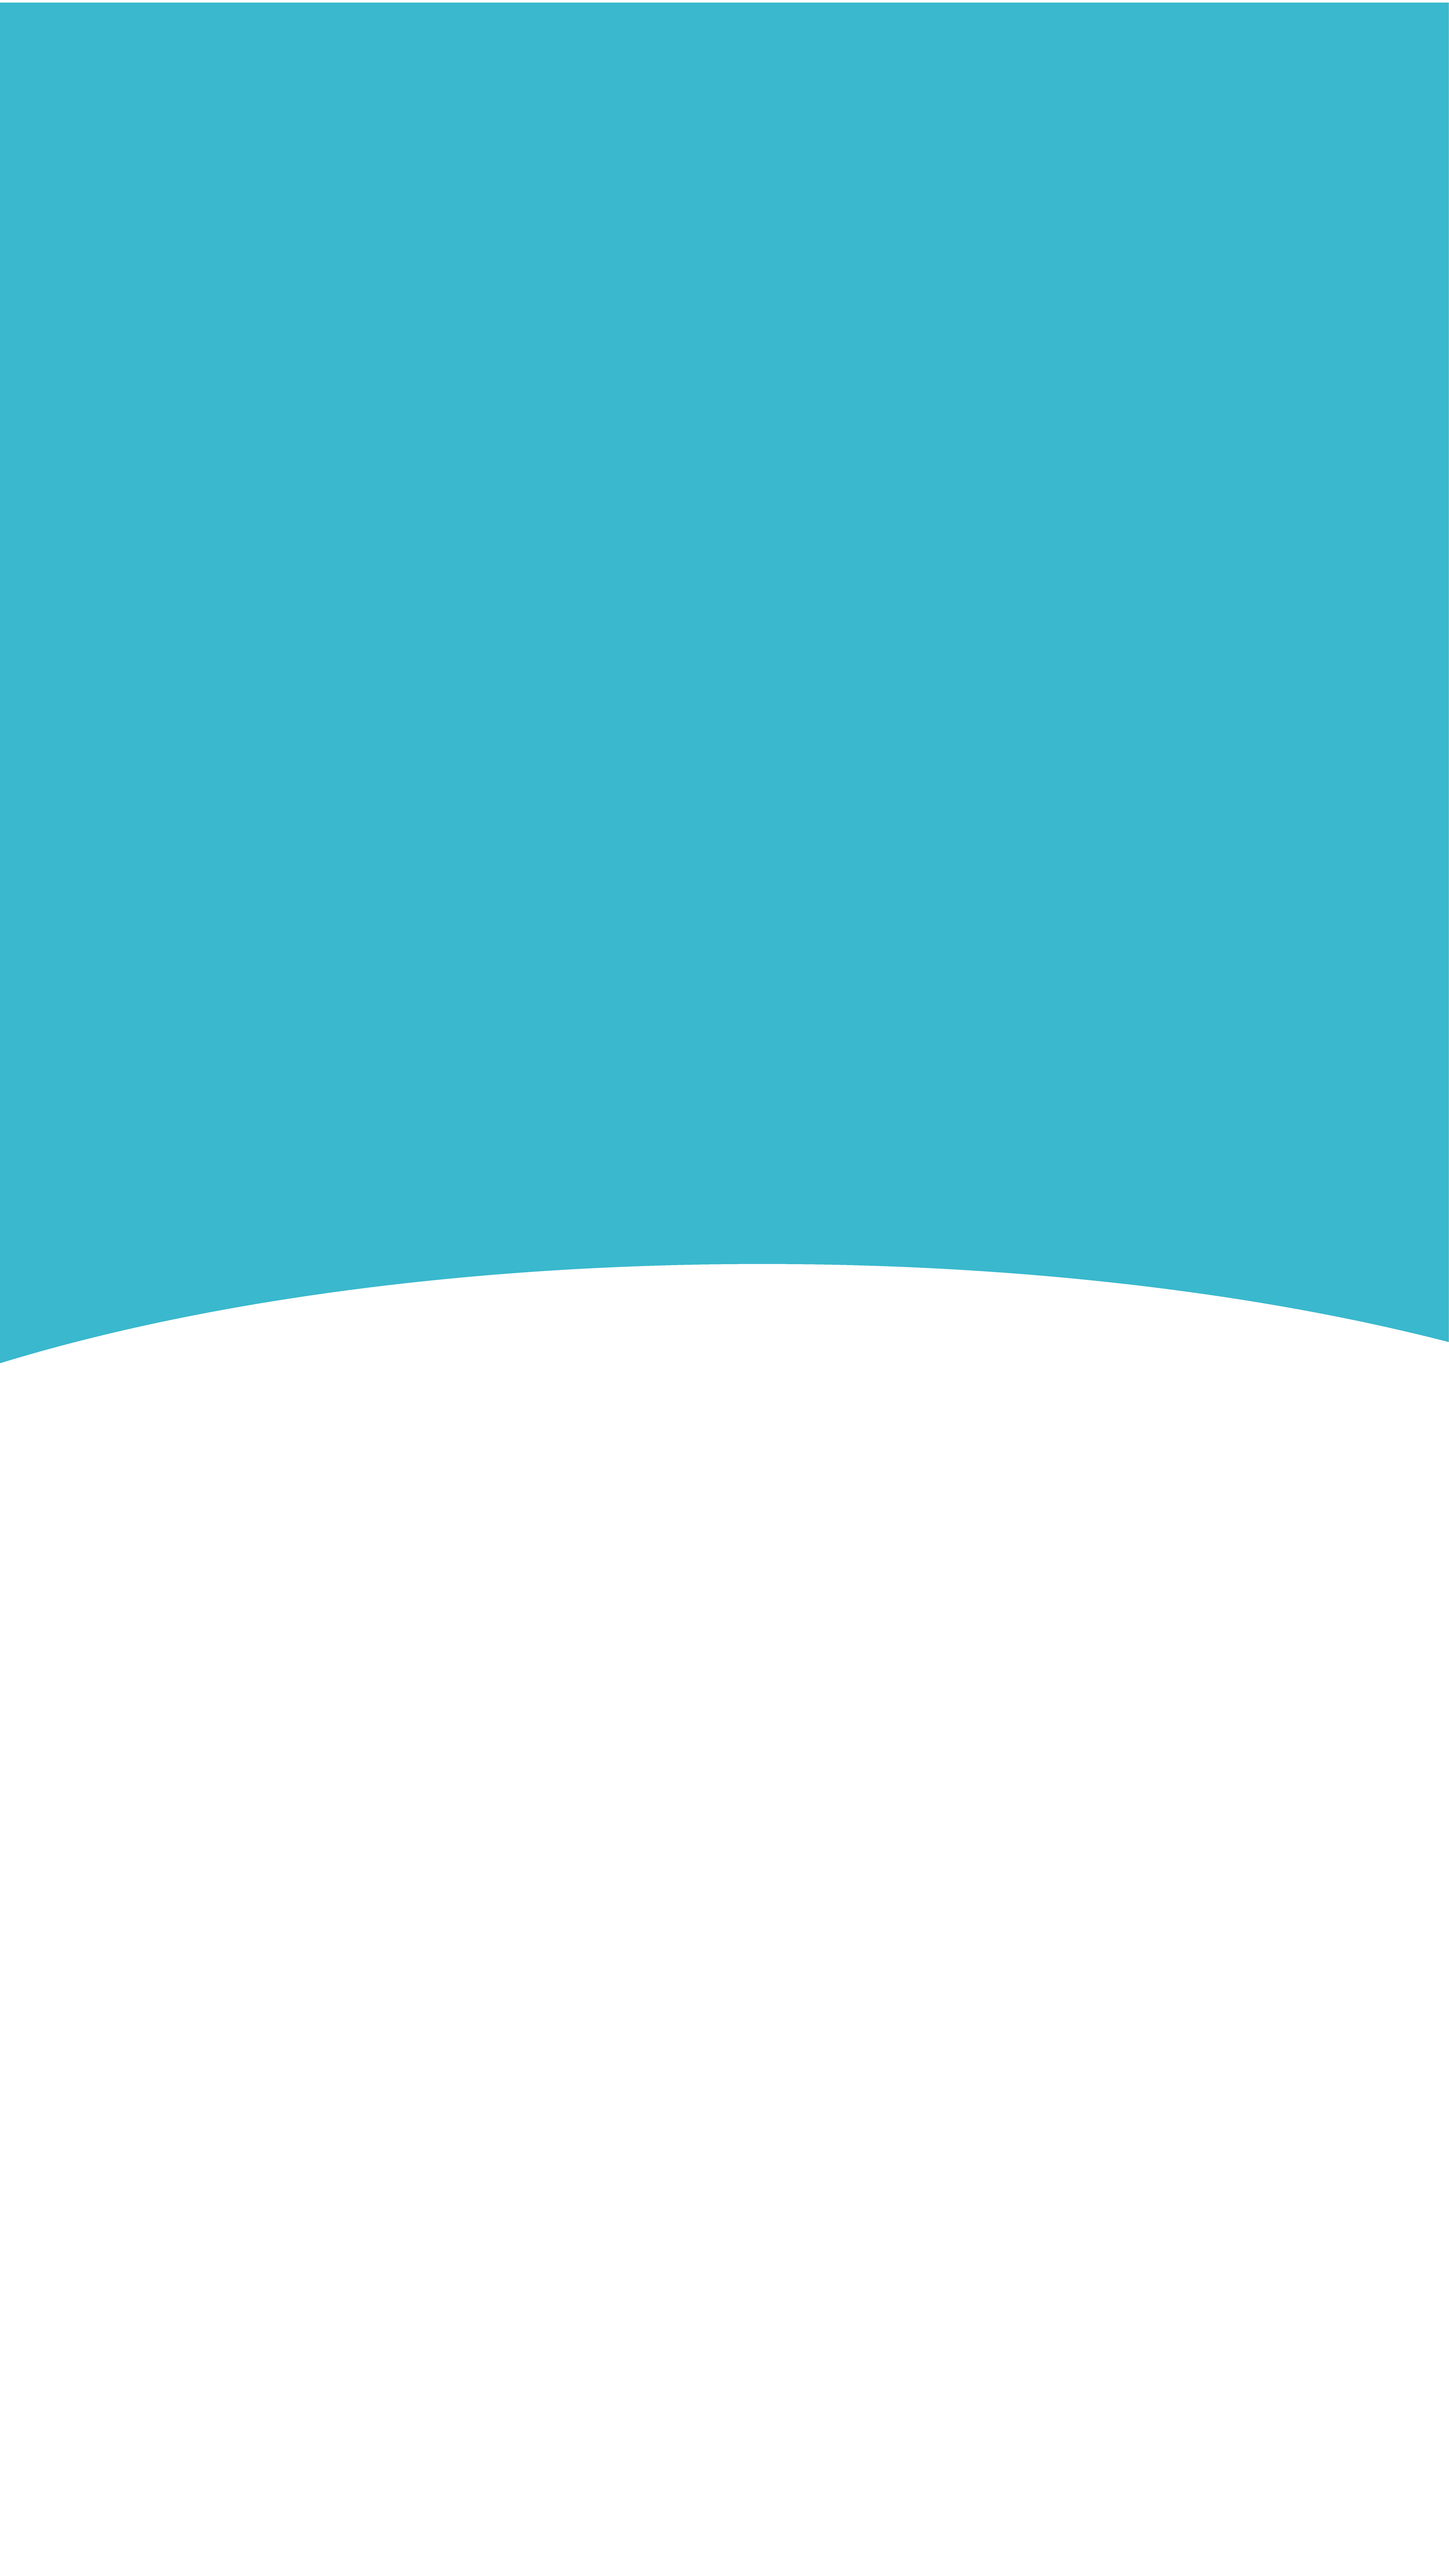
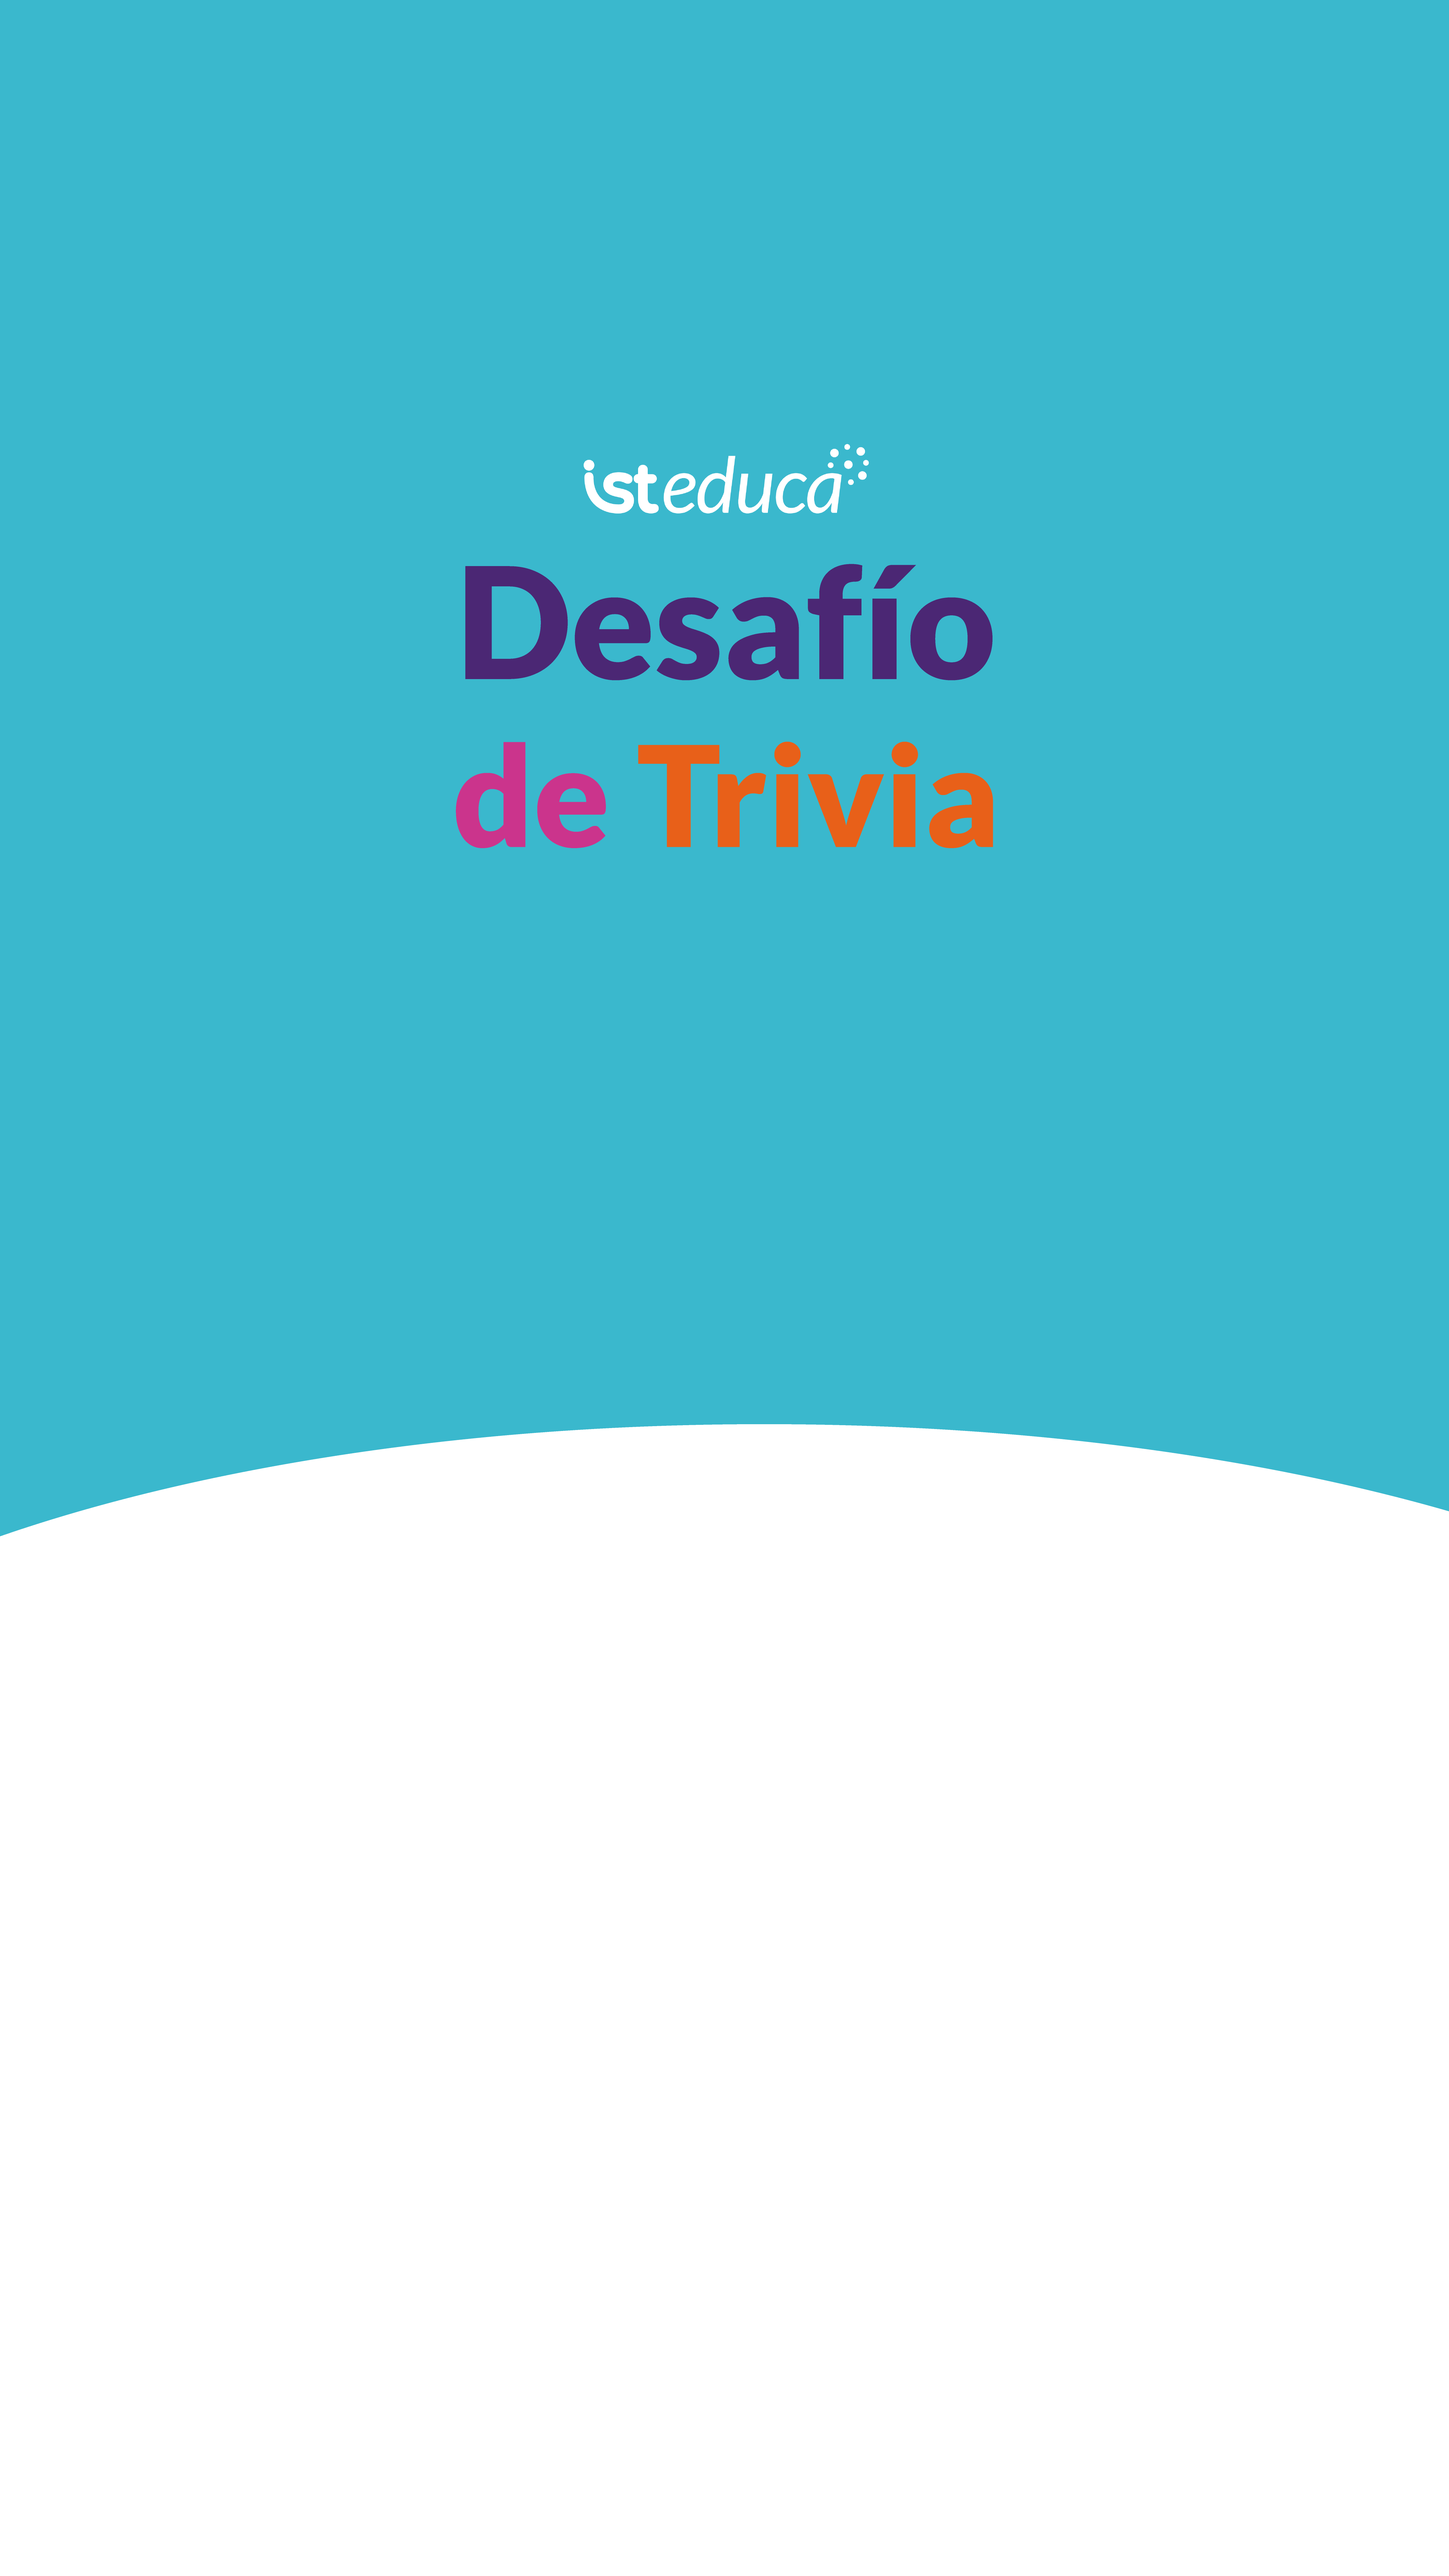
agregué preguntas y cambios emnores

Changed region(s): [[0.0, 0.4688, 1.0, 0.5938], [0.311, 0.1562, 0.6843, 0.3438]]

diff --git a/src/scenes/GameScene.js b/src/scenes/GameScene.js
@@ -1,4 +1,3 @@
-// src/scenes/GameScene.js
 import QUESTIONS from '../data/questions.js';
 
 export default class GameScene extends Phaser.Scene {
@@ -55,7 +54,7 @@ export default class GameScene extends Phaser.Scene {
   }
 
   preload() {
-    // FONDO EXCLUSIVO DE GAME
+    // Fondo exclusivo de Game
     this.load.image('game_bg', 'assets/images/background.png');
 
     // Audio
@@ -163,6 +162,14 @@ export default class GameScene extends Phaser.Scene {
     this.cardContainer.add(counterText);
     this.progressText = counterText;
 
+    // Asegurar espacio entre el contador (X/N) y el texto de la pregunta
+    const counterBottom = -cardH / 2 + pad + counterText.height;
+    const gap = 16; // separación mínima en píxeles
+    const minQuestionCenterY = counterBottom + gap + questionText.height / 2;
+    if (questionText.y < minQuestionCenterY) {
+      questionText.setY(minQuestionCenterY);
+    }
+
     // ----- Timer integrado en la base de la card -----
     const barH = 22;
     const trackW = cardW - pad * 2;
@@ -255,23 +262,20 @@ export default class GameScene extends Phaser.Scene {
       const points = Phaser.Math.Clamp(11 - Math.ceil(secondsUsed), 1, 10);
       this.score += points;
 
-      // Actualiza cápsula con "Puntaje: N"
       this.scoreText.setText(`Puntaje: ${this.score}`);
 
-      // +puntos AL LADO DERECHO DEL BOTÓN CORRECTO
+      // +puntos al lado derecho del botón correcto
       this.showPointsNearButton(entry, points);
 
-      // Feedback visual: solo bordes (verde)
+      // Borde verde
       this.showButtonBorder(entry, 0x2ecc71);
 
-      // Bloquear taps duplicados hasta cambiar de pregunta
       this.choiceButtons.forEach(({ hit }) => hit.disableInteractive());
       this.time.delayedCall(480, () => this.nextQuestion());
     } else {
       this.wrongSfx?.play();
       this.cameras.main.shake(160, 0.01);
-
-      // Feedback visual: solo bordes (rojo)
+      // Borde rojo
       this.showButtonBorder(entry, 0xe74c3c);
     }
   }
@@ -313,7 +317,7 @@ export default class GameScene extends Phaser.Scene {
 
     this.scoreCapsule = this.add.container(cx, cy).setAlpha(0).setDepth(30);
 
-    // Fondo gradiente con bordes redondeados ya dibujados
+    // Gradiente con bordes redondeados ya dibujados
     this.createGradientTexture(this.scoreGradKey, this.scoreCapW, this.scoreCapH, '#4f0b7b', '#e0119d', this.BTN_RADIUS);
     const bg = this.add.image(0, 0, this.scoreGradKey).setOrigin(0.5);
     this.scoreCapsule.add(bg);
@@ -347,7 +351,7 @@ export default class GameScene extends Phaser.Scene {
     const label = this.add.text(0, 0, text, {
       fontFamily: 'Arial, Helvetica, sans-serif',
       fontSize: '30px',
-      color: '#313537', // color de alternativas
+      color: '#313537',
       align: 'center',
       wordWrap: { width: w - 40, useAdvancedWrap: true }
     }).setOrigin(0.5);
@@ -357,26 +361,20 @@ export default class GameScene extends Phaser.Scene {
       .setInteractive({ useHandCursor: true });
     box.add(hit);
 
-    // Hover/Press (desktop)
-    hit.on('pointerover', () => {
-      this.tweens.add({ targets: bg, alpha: this.HOVER_ALPHA, duration: this.HOVER_DUR, ease: 'Linear' });
-    });
-    hit.on('pointerout', () => {
-      this.tweens.add({ targets: bg, alpha: this.NORMAL_ALPHA, duration: this.HOVER_DUR, ease: 'Linear' });
-    });
-    hit.on('pointerdown', () => {
-      this.tweens.add({ targets: bg, alpha: this.PRESS_ALPHA, duration: this.HOVER_DUR, ease: 'Linear' });
-    });
-    const restoreAlpha = () => {
-      this.tweens.add({ targets: bg, alpha: this.NORMAL_ALPHA, duration: this.HOVER_DUR, ease: 'Linear' });
-    };
-    hit.on('pointerup', restoreAlpha);
-    hit.on('pointerupoutside', restoreAlpha);
+    hit.on('pointerover', () => { this.tweens.add({ targets: bg, alpha: this.HOVER_ALPHA, duration: this.HOVER_DUR }); });
+    hit.on('pointerout',  () => { this.tweens.add({ targets: bg, alpha: this.NORMAL_ALPHA, duration: this.HOVER_DUR }); });
+    hit.on('pointerdown', () => { this.tweens.add({ targets: bg, alpha: this.PRESS_ALPHA, duration: this.HOVER_DUR }); });
+    const restore = () => { this.tweens.add({ targets: bg, alpha: this.NORMAL_ALPHA, duration: this.HOVER_DUR }); };
+    hit.on('pointerup', restore);
+    hit.on('pointerupoutside', restore);
 
     return { box, bg, label, hit, border: null, shadow, w, h, r };
   }
 
   drawButtonBG(g, w, h, fill, stroke, lineW, radius) {
+    g.clear();
+    g.fillStyle(fill, 1);
+    g.fillRoundedRect(-w / 2, -w / 2 + (w - h) / 2, w, h, radius); // normal
     g.clear();
     g.fillStyle(fill, 1);
     g.fillRoundedRect(-w / 2, -h / 2, w, h, radius);
@@ -396,7 +394,8 @@ export default class GameScene extends Phaser.Scene {
     this.tweens.add({ targets: g, alpha: 1, duration: 90, yoyo: true, hold: 140 });
   }
 
- showPointsNearButton(entry, points) {
+  // +puntos junto al botón (fuera, alineado al centro vertical del botón)
+  showPointsNearButton(entry, points) {
     const { width: W } = this.scale;
 
     // Posición base: justo a la DERECHA del botón, centrado verticalmente
@@ -414,13 +413,21 @@ export default class GameScene extends Phaser.Scene {
       .setDepth(50)
       .setAlpha(0);
 
-    // Pequeña animación de aparición centrada
+    // Evitar salir por la derecha
+    const bounds = txt.getBounds();
+    const maxX = W - 12;
+    if (bounds.right > maxX) {
+      const over = bounds.right - maxX;
+      txt.x -= over;
+    }
+
+    // Animación sutil de aparición
     this.tweens.add({
       targets: txt,
       alpha: 1,
+      x: txt.x + 10,
       y: y - 10,
-      scale: 1,
-      duration: 180,
+      duration: 160,
       ease: 'Quad.Out',
       yoyo: true,
       hold: 240,
@@ -428,31 +435,7 @@ export default class GameScene extends Phaser.Scene {
     });
   }
 
-  // (Opcional, ya no se usa para la cápsula)
-  showPointsGain(points) {
-    const rightEdge = this.scoreCapsule.x + this.scoreCapW / 2;
-    const y = this.scoreCapsule.y;
-    const gain = this.add.text(rightEdge + 8, y, `+${points}`, {
-      fontFamily: 'Arial, Helvetica, sans-serif',
-      fontSize: '30px',
-      color: '#ffffff',
-      stroke: '#000000',
-      strokeThickness: 4
-    }).setOrigin(0, 0.5).setAlpha(0);
-
-    this.tweens.add({
-      targets: gain,
-      alpha: 1,
-      y: y - 16,
-      duration: 180,
-      ease: 'Quad.Out',
-      yoyo: true,
-      hold: 200,
-      onComplete: () => gain.destroy()
-    });
-  }
-
-  // ============ Gradiente con bordes redondeados (sin máscaras) ============
+  // Gradiente con bordes redondeados (sin máscaras)
   createGradientTexture(key, w, h, leftColor, rightColor, radius = 0) {
     const tex = this.textures.createCanvas(key, Math.max(1, Math.floor(w)), Math.max(1, Math.floor(h)));
     const ctx = tex.getContext();

diff --git a/src/data/questions.js b/src/data/questions.js
@@ -1,20 +1,54 @@
 const QUESTIONS = [
   {
-    text: '¿Cuál de las siguientes opciones describe correctamente qué es el fuego?',
-    choices: ['Un evento accidental que siempre resulta en un incendio.', 'Un fenómeno natural que ocurre únicamente en presencia de oxígeno puro.', 'Un proceso de oxidación lenta que no genera calor ni luz.', 'Una reacción química conocida como combustión que libera calor, luz y gases.'],
-    correctIndex: 3
+    text: "¿Cuál de las siguientes opciones describe correctamente qué es el fuego?",
+    choices: [
+      "Un evento accidental que siempre resulta en un incendio.",
+      "Un fenómeno natural que ocurre únicamente en presencia de oxígeno puro.",
+      "Un proceso de oxidación lenta que no genera calor ni luz.",
+      "Una reacción química conocida como combustión que libera calor, luz y gases.",
+    ],
+    correctIndex: 3,
   },
   {
-    text: '¿Cuáles son los elementos esenciales que permiten la combustión según el Triángulo del Fuego?',
-    choices: ['Combustible, energía de activación y reacción en cadena', 'Combustible, comburente y calor', 'Combustible, comburente y reacción en cadena', 'Combustible, oxígeno y energía de activación'],
-    correctIndex: 1
+    text: "¿Cuáles son los elementos esenciales que permiten la combustión según el Triángulo del Fuego?",
+    choices: [
+      "Combustible, energía de activación y reacción en cadena",
+      "Combustible, comburente y calor",
+      "Combustible, comburente y reacción en cadena",
+      "Combustible, oxígeno y energía de activación",
+    ],
+    correctIndex: 1,
   },
   {
-    text: '¿Cuál es la principal diferencia entre el Triángulo del Fuego y el Tetraedro del Fuego?',
-    choices: ['El Tetraedro del Fuego incorpora un cuarto elemento: la reacción en cadena.', 'El Triángulo del Fuego representa llamas visibles, mientras que el Tetraedro no.', 'El Triángulo del Fuego incluye la reacción en cadena, mientras que el Tetraedro no.', 'El Triángulo del Fuego se utiliza para extinguir incendios, mientras que el Tetraedro no tiene aplicaciones prácticas.'],
-    correctIndex: 0
-  }
+    text: "¿Cuál es la principal diferencia entre el Triángulo del Fuego y el Tetraedro del Fuego?",
+    choices: [
+      "El Tetraedro del Fuego incorpora un cuarto elemento: la reacción en cadena.",
+      "El Triángulo del Fuego representa llamas visibles, mientras que el Tetraedro no.",
+      "El Triángulo del Fuego incluye la reacción en cadena, mientras que el Tetraedro no.",
+      "El Triángulo del Fuego se utiliza para extinguir incendios, mientras que el Tetraedro no tiene aplicaciones prácticas.",
+    ],
+    correctIndex: 0,
+  },
+  {
+    text: "¿Cuál de las siguientes opciones describe una pérdida indirecta causada por un incendio?",
+    choices: [
+      "Destrucción de bienes materiales",
+      "Pérdida de clientes",
+      "Lesiones personales",
+      "Emisión de gases tóxicos",
+    ],
+    correctIndex: 1,
+  },
+   {
+    text: "¿Cuál de las siguientes opciones describe correctamente el método de extinción conocido como 'sofocación'?",
+    choices: [
+      "Reducir la temperatura del fuego aplicando agua para absorber el calor.",
+      "Disminuir la concentración de oxígeno en el área del fuego utilizando un gas más pesado o vapor de agua.",
+      "Interrumpir la reacción química aplicando un inhibidor como el Polvo Químico Seco.",
+      "Eliminar el combustible del área afectada para detener la combustión.",
+    ],
+    correctIndex: 1,
+  },
 ];
 
 export default QUESTIONS;
-

diff --git a/src/scenes/GameOverScene.js b/src/scenes/GameOverScene.js
@@ -12,7 +12,9 @@ export default class GameOverScene extends Phaser.Scene {
   preload() {
     // Fondo exclusivo de Game Over
     this.load.image('gameover_bg', 'assets/images/background-over.png');
-    // Música de Game Over (suena una vez)
+    // Logo en la mitad superior
+    this.load.image('logo', 'assets/images/logo.png');
+    // Música de Game Over (una sola vez)
     this.load.audio('gameoverMusic', 'assets/audio/gameover_music.mp3');
   }
 
@@ -25,6 +27,9 @@ export default class GameOverScene extends Phaser.Scene {
     // Asegurar que la música previa no siga
     this.sound.stopByKey('gameMusic');
     this.sound.stopByKey('introMusic');
+
+    // Logo centrado en X y centro del top-half
+    this.add.image(W * 0.5, H * 0.25, 'logo').setOrigin(0.5);
 
     // Música de Game Over (no loop)
     const gom = this.sound.add('gameoverMusic', { loop: false, volume: 0.5 });
